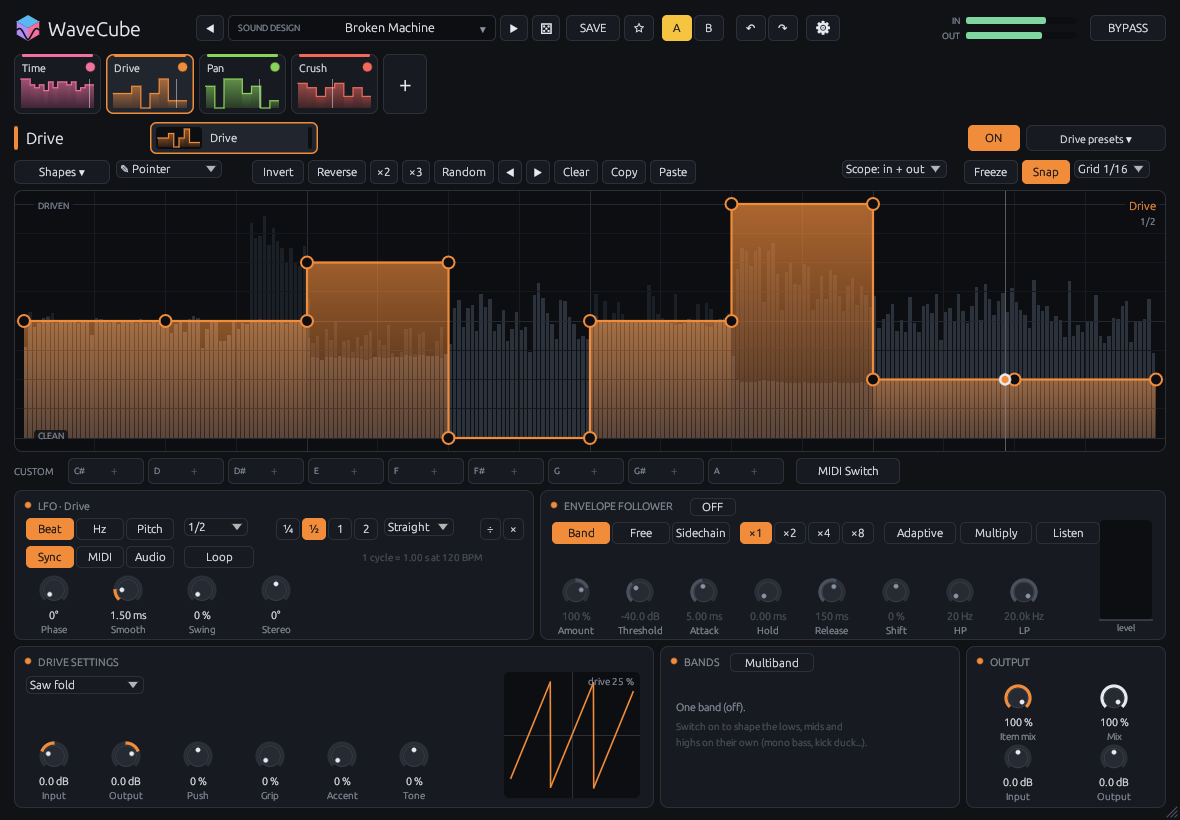
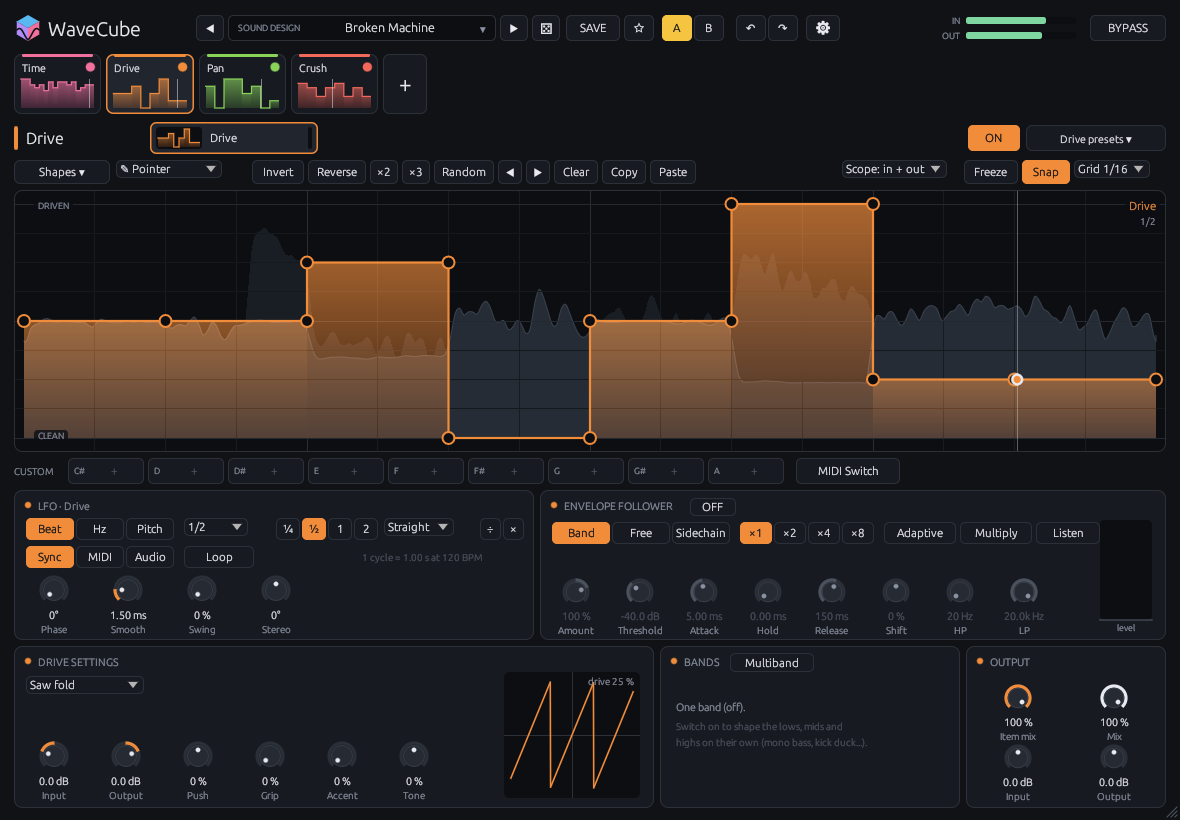
Smooth scope outlines instead of bars
Claude-Session: https://claude.ai/code/session_013jKKu6QEcWQprfHFTeKF77

Changed region(s): [[0.0305, 0.3354, 1.0, 0.5488]]

diff --git a/plugins/wavecube/src/editor/panels.rs b/plugins/wavecube/src/editor/panels.rs
@@ -848,18 +848,19 @@ pub fn tool_view(ui: &mut Ui, cx: &Cx, gui: &mut Gui) {
                 painter.vline(inner.left() + inner.width() * k as f32 / divs as f32, inner.y_range(), Stroke::new(1.0f32, Color32::from_rgb(0x1c, 0x20, 0x27)));
             }
             let hh = inner.height() * 0.5;
-            for i in 0..SCOPE_N {
-                let x0 = inner.left() + i as f32 * bw;
-                let l = gui.scope_in[i].min(1.0).sqrt() * hh;
-                let r = gui.scope_out[i].min(1.0).sqrt() * hh;
-                if set.scope_split {
-                    painter.rect_filled(Rect::from_min_max(Pos2::new(x0, mid - l), Pos2::new(x0 + bw - 0.5, mid)), CornerRadius::ZERO, col.gamma_multiply(0.8));
-                    painter.rect_filled(Rect::from_min_max(Pos2::new(x0, mid), Pos2::new(x0 + bw - 0.5, mid + r)), CornerRadius::ZERO, col.gamma_multiply(0.5));
-                } else {
-                    let m = l.max(r);
-                    painter.rect_filled(Rect::from_min_max(Pos2::new(x0, mid - m), Pos2::new(x0 + bw - 0.5, mid + m)), CornerRadius::ZERO, col.gamma_multiply(0.7));
-                }
-            }
+            let _ = bw;
+            let up = |v: f32| v.min(1.0).sqrt() * hh;
+            let down = |v: f32| -(v.min(1.0).sqrt() * hh);
+            let (top, bot) = if set.scope_split {
+                (smooth_outline(&gui.scope_in, inner.left(), inner.width(), mid, up), smooth_outline(&gui.scope_out, inner.left(), inner.width(), mid, down))
+            } else {
+                let m: Vec<f32> = gui.scope_in.iter().zip(gui.scope_out.iter()).map(|(a, b)| a.max(*b)).collect();
+                (smooth_outline(&m, inner.left(), inner.width(), mid, up), smooth_outline(&m, inner.left(), inner.width(), mid, down))
+            };
+            painter.add(fill_to(&top, mid, col.gamma_multiply(0.45)));
+            painter.add(fill_to(&bot, mid, col.gamma_multiply(if set.scope_split { 0.3 } else { 0.45 })));
+            painter.add(Shape::line(top, PathStroke::new(1.3f32, col)));
+            painter.add(Shape::line(bot, PathStroke::new(1.3f32, col.gamma_multiply(0.8))));
             painter.text(er.min + Vec2::new(14.0, 11.0), Align2::LEFT_CENTER, format!("SCOPE · {} · at position {} of the chain", LENGTHS[set.scope_len as usize], cx.st.chain.iter().position(|&c| c as usize == cx.sel).map(|p| p + 1).unwrap_or(0)), pf(9.5), DIM);
             if set.scope_split {
                 painter.text(Pos2::new(inner.left() + 4.0, inner.top() + 6.0), Align2::LEFT_CENTER, "L", pf(9.0), FAINT);

diff --git a/plugins/wavecube/src/editor/widgets.rs b/plugins/wavecube/src/editor/widgets.rs
@@ -457,3 +457,51 @@ pub fn thumb(ui: &Ui, w: &Wave, r: Rect, col: Color32, alpha: u8) {
     ui.painter().add(fill_under(&path, r.bottom(), col, alpha, r.height()));
     ui.painter().add(Shape::line(path, PathStroke::new(1.2f32, col)));
 }
+
+/// A smooth outline through per-bin levels (lightly blurred, Catmull-Rom between bins):
+/// points from left to right, `h(v)` = height in pixels above `base` (negative: below).
+pub fn smooth_outline(vals: &[f32], left: f32, width: f32, base: f32, h: impl Fn(f32) -> f32) -> Vec<Pos2> {
+    let n = vals.len();
+    if n < 2 {
+        return vec![];
+    }
+    // blur [1 2 1] (wraps: the scope is one cycle)
+    let b: Vec<f32> = (0..n).map(|i| (vals[(i + n - 1) % n] + 2.0 * vals[i] + vals[(i + 1) % n]) * 0.25).collect();
+    let y: Vec<f32> = b.iter().map(|&v| h(v)).collect();
+    let at = |i: isize| y[i.rem_euclid(n as isize) as usize];
+    let up = h(1.0) >= 0.0;
+    let clip = |v: f32| if up { v.max(0.0) } else { v.min(0.0) };
+    let sub = 3;
+    let mut out = Vec::with_capacity(n * sub + 1);
+    for i in 0..n as isize {
+        let (p0, p1, p2, p3) = (at(i - 1), at(i), at(i + 1), at(i + 2));
+        for k in 0..sub {
+            let t = k as f32 / sub as f32;
+            let v = 0.5 * (2.0 * p1 + (-p0 + p2) * t + (2.0 * p0 - 5.0 * p1 + 4.0 * p2 - p3) * t * t + (-p0 + 3.0 * p1 - 3.0 * p2 + p3) * t * t * t);
+            let x = left + width * (i as f32 + 0.5 + t) / n as f32;
+            out.push(Pos2::new(x.min(left + width), base - clip(v)));
+        }
+    }
+    out.insert(0, Pos2::new(left, base - clip(at(0))));
+    out.push(Pos2::new(left + width, base - clip(at(n as isize - 1))));
+    out
+}
+
+/// Solid fill between an outline and a base line.
+pub fn fill_to(path: &[Pos2], base: f32, col: Color32) -> Mesh {
+    let mut m = Mesh::default();
+    for w in path.windows(2) {
+        let (a, b) = (w[0], w[1]);
+        if (b.x - a.x).abs() < 0.01 {
+            continue;
+        }
+        let i = m.vertices.len() as u32;
+        m.colored_vertex(a, col);
+        m.colored_vertex(b, col);
+        m.colored_vertex(Pos2::new(b.x, base), col);
+        m.colored_vertex(Pos2::new(a.x, base), col);
+        m.add_triangle(i, i + 1, i + 2);
+        m.add_triangle(i, i + 2, i + 3);
+    }
+    m
+}

diff --git a/plugins/wavecube/src/editor/wave_ed.rs b/plugins/wavecube/src/editor/wave_ed.rs
@@ -8,7 +8,7 @@ use super::widgets::*;
 use super::{commit, edit_wave, set_b, Cx, Drag, Gui, Tool, BASE_W, BAND_NAMES};
 use crate::kinds::LENGTHS;
 use crate::wave::{bend, Pen, Wave};
-use crate::{Custom, GRIDS, N_BANDS, N_CUSTOM, SCOPE_N};
+use crate::{Custom, GRIDS, N_BANDS, N_CUSTOM};
 
 const Y_TOOLS: f32 = 160.0;
 const Y_ED: f32 = 190.0;
@@ -199,19 +199,16 @@ pub fn editor(ui: &mut Ui, cx: &Cx, gui: &mut Gui) {
     // scope: input dark, output light
     let mode = cx.st.scope_mode;
     if mode < 2 {
-        let bw = inner.width() / SCOPE_N as f32;
-        let sc = |a: f32| (a.min(1.0).sqrt() * inner.height()).max(0.0);
-        for i in 0..SCOPE_N {
-            let x0 = inner.left() + i as f32 * bw;
-            let hi = if mode == 0 { sc(gui.scope_in[i]) } else { 0.0 };
-            let ho = sc(gui.scope_out[i]);
-            if hi > 0.5 {
-                painter.rect_filled(Rect::from_min_max(Pos2::new(x0, inner.bottom() - hi), Pos2::new(x0 + bw - 1.0, inner.bottom())), CornerRadius::ZERO, Color32::from_rgb(0x1b, 0x1f, 0x26));
-            }
-            if ho > 0.5 {
-                painter.rect_filled(Rect::from_min_max(Pos2::new(x0, inner.bottom() - ho), Pos2::new(x0 + bw - 1.0, inner.bottom())), CornerRadius::ZERO, Color32::from_rgb(0x2c, 0x32, 0x3c));
-            }
+        // smooth, filled outlines (input dark behind, output lighter in front)
+        let hgt = inner.height();
+        let h = |v: f32| v.min(1.0).sqrt() * hgt;
+        if mode == 0 {
+            let pin = smooth_outline(&gui.scope_in, inner.left(), inner.width(), inner.bottom(), h);
+            painter.add(fill_to(&pin, inner.bottom(), Color32::from_rgb(0x19, 0x1d, 0x24)));
         }
+        let pout = smooth_outline(&gui.scope_out, inner.left(), inner.width(), inner.bottom(), h);
+        painter.add(fill_to(&pout, inner.bottom(), Color32::from_rgb(0x26, 0x2c, 0x35)));
+        painter.add(Shape::line(pout, PathStroke::new(1.0f32, Color32::from_rgb(0x3a, 0x42, 0x4e))));
     }
     // grid
     let g = cx.st.grid as usize;
